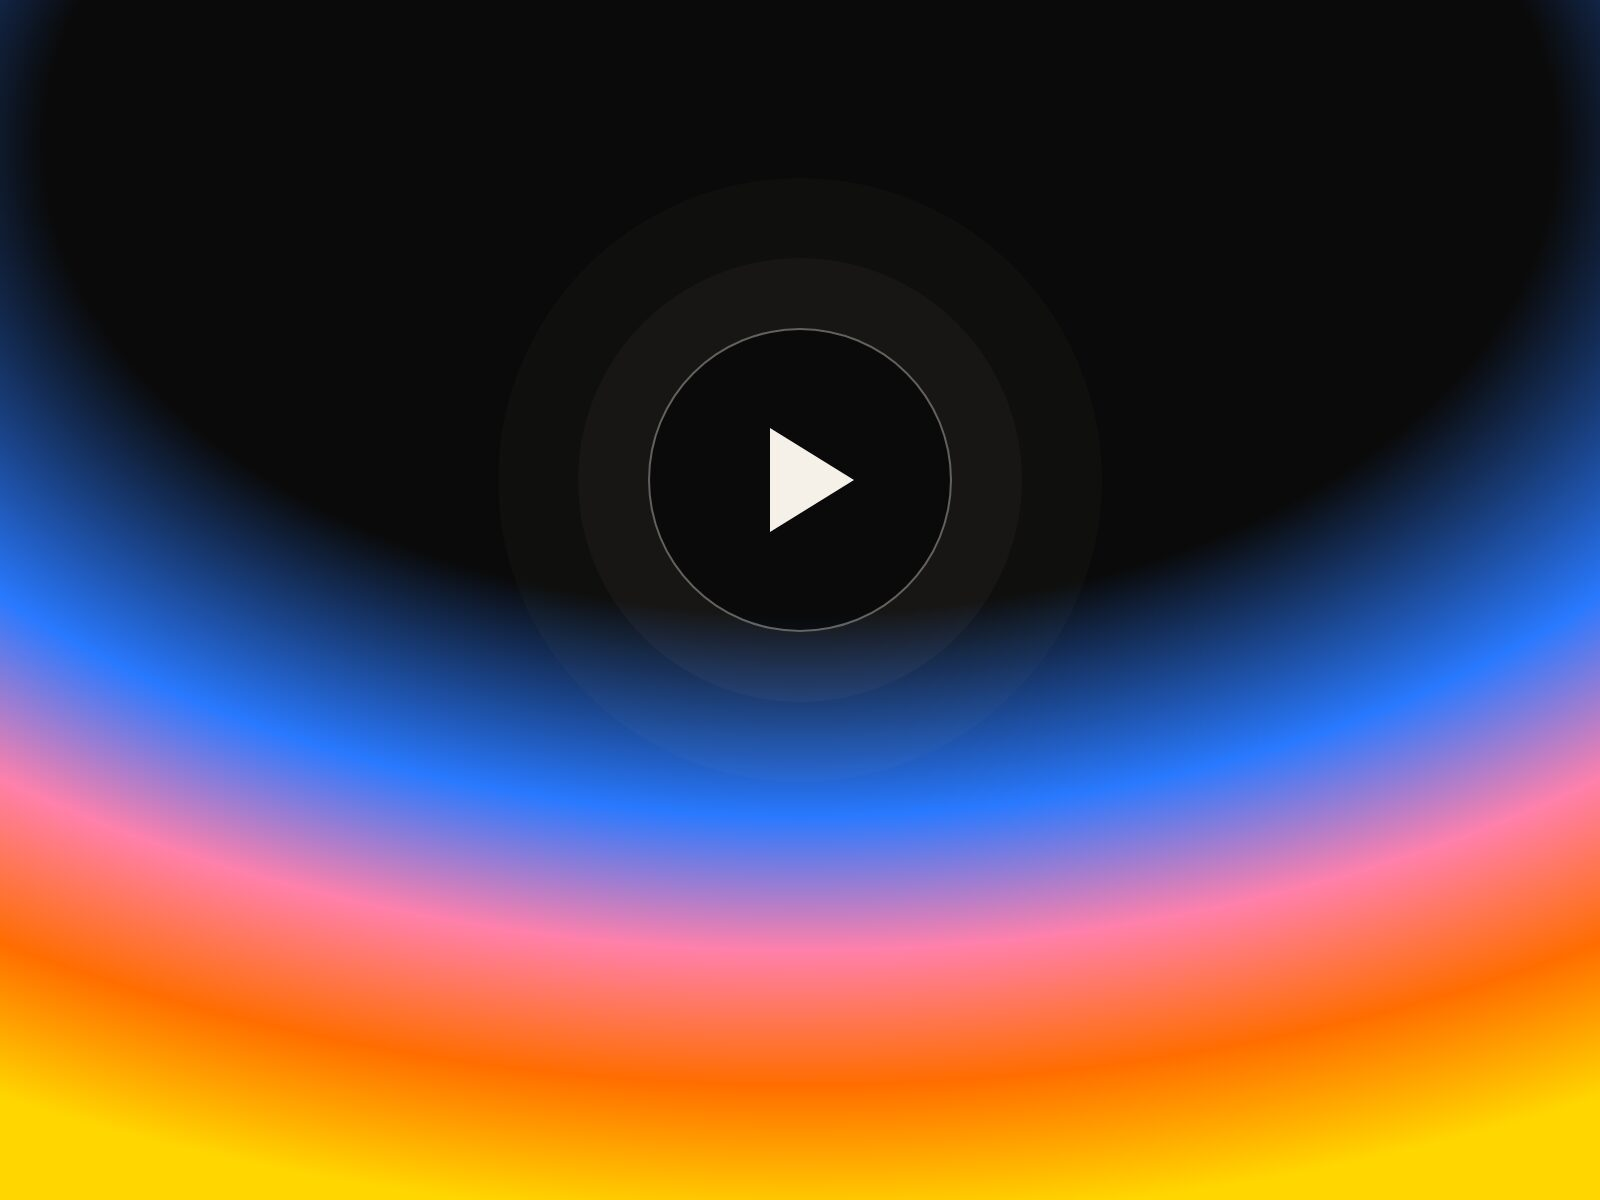
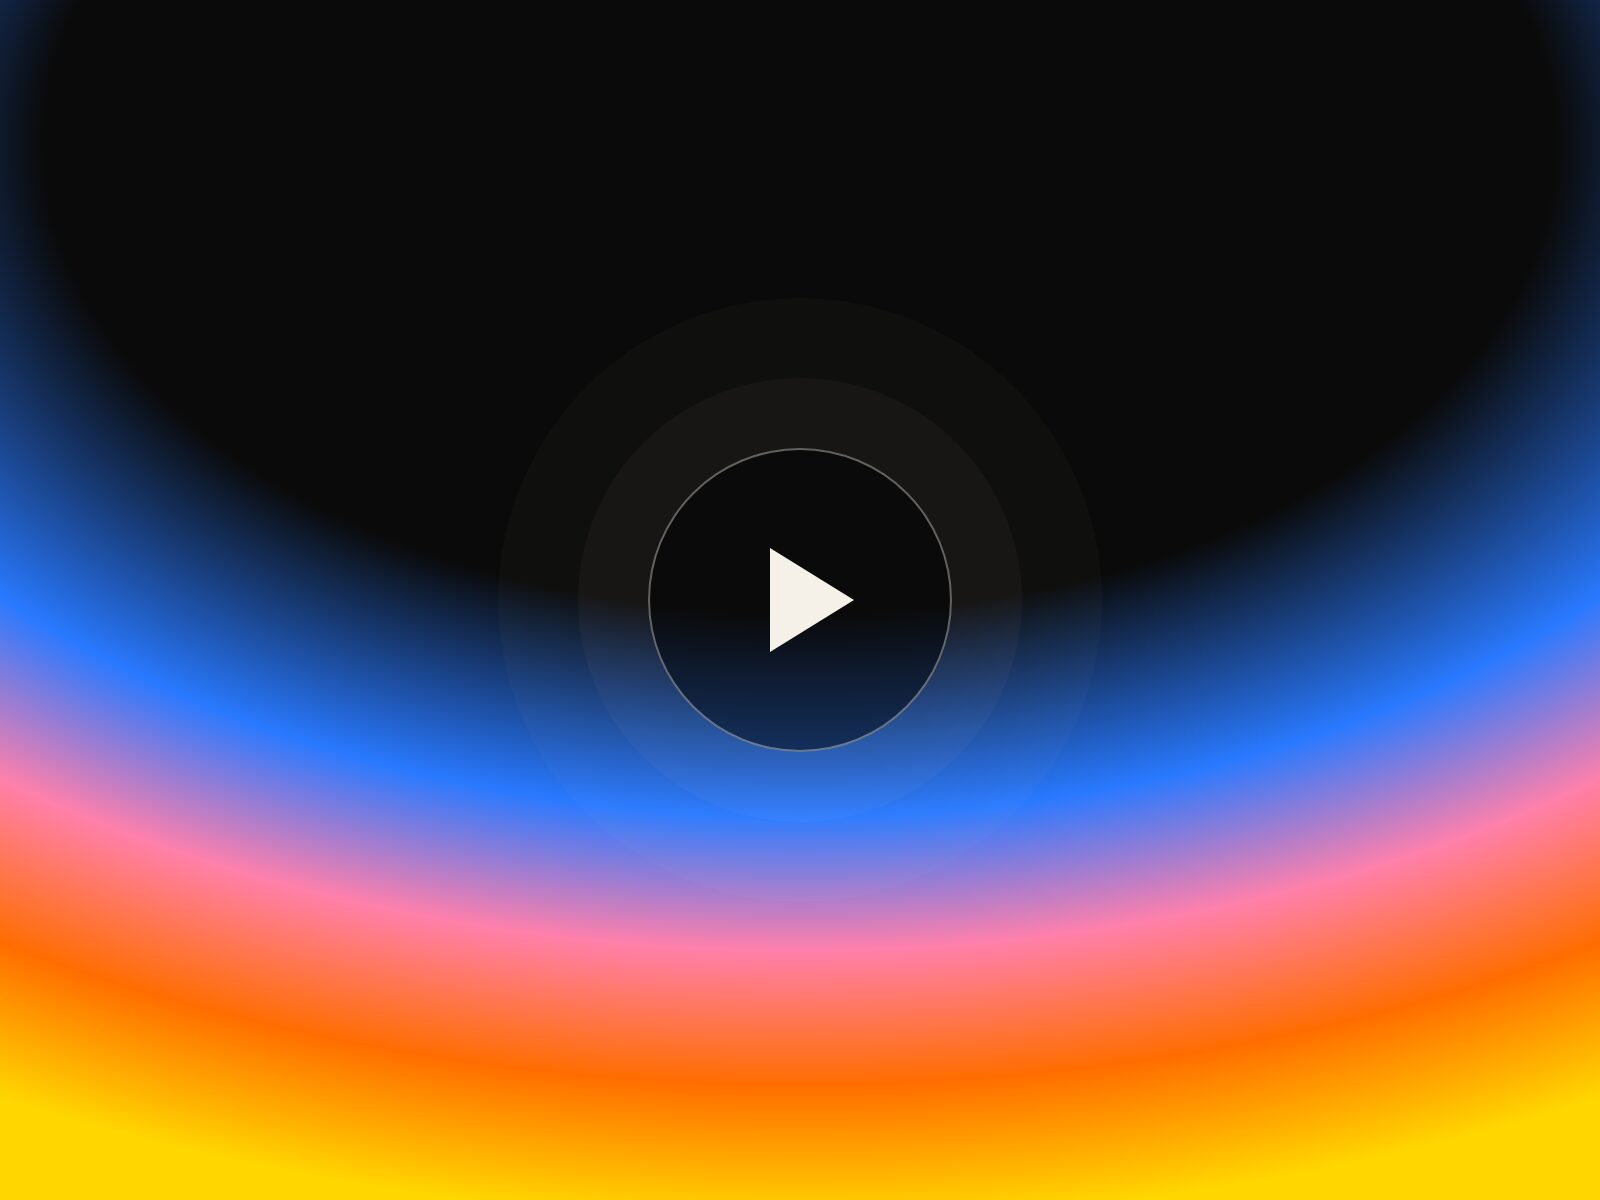
Center the play button in the Video Marketing cover

Changed region(s): [[0.4062, 0.3392, 0.5938, 0.6475], [0.5625, 0.4625, 0.5938, 0.4933], [0.4062, 0.4625, 0.4375, 0.4933]]

diff --git a/index.html b/index.html
@@ -162,7 +162,7 @@
       <article class="project-card glow reveal reveal--delay-1">
         <a href="video-marketing/index.html" class="project-card__link">
           <div class="project-card__img">
-            <img src="assets/covers/home-video.jpg?v=2" alt="Video Marketing, een play-knop op de golven" />
+            <img src="assets/covers/home-video.jpg?v=3" alt="Video Marketing, een play-knop op de golven" />
           </div>
           <div class="project-card__info">
             <h3 class="project-card__title">Video Marketing</h3>
